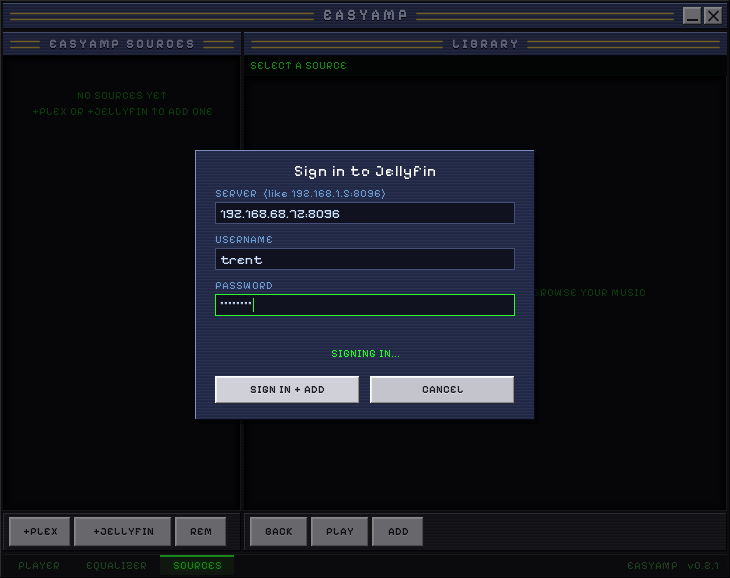
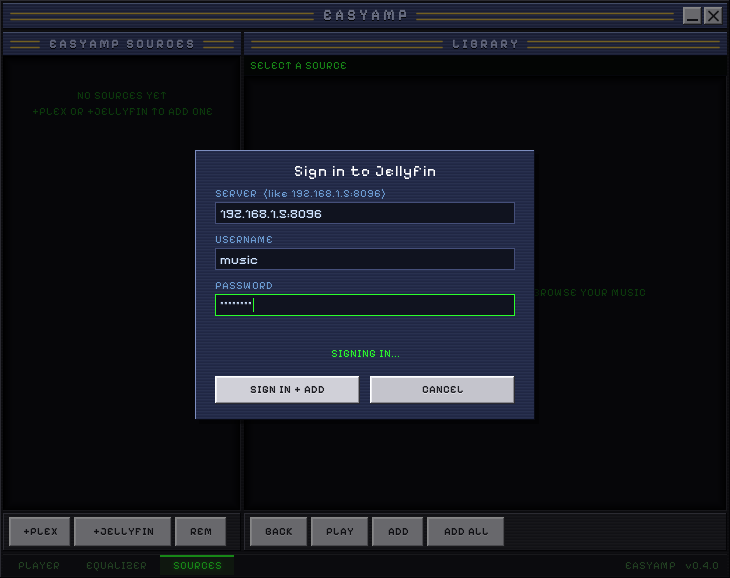
retro: CI build on its own tag pattern; scrub network-specific details
- .github/workflows/retro.yml: tests, cross-build and the Windows 98 import
  check on pull requests touching retro/, and a release on `retro-v*` tags.
  Two things are load-bearing: the tag pattern is NOT `v*` (that starts the
  GTK app's three release builds), and the release is created with
  make_latest: false (the README and the website link to
  releases/latest/download/... for the GTK installers). The tag must match
  EA_VERSION.
- tlstest takes its upload URL as an argument instead of a compiled-in
  LAN address; the doc renders use generic server names.

diff --git a/retro/src/main_shot.c b/retro/src/main_shot.c
@@ -155,15 +155,15 @@ int main(int argc, char **argv)
         static const char *names[] = { "AC/DC", "Aerosmith", "Alice in Chains", "The Beatles", "Beyonce", "Black Sabbath", "Blondie",
             "Bob Dylan", "Creedence Clearwater Revival", "David Bowie", "Deep Purple", "Dire Straits", "The Doors", "Eagles" };
         m.link_open = 0; m.form_open = 1; m.form_focus = 2;
-        strcpy(m.form_field[0], "192.168.68.72:8096"); strcpy(m.form_field[1], "trent"); strcpy(m.form_field[2], "secret99");
+        strcpy(m.form_field[0], "192.168.1.5:8096"); strcpy(m.form_field[1], "music"); strcpy(m.form_field[2], "password");
         strcpy(m.form_status, "SIGNING IN...");
         ui_model_changed(ui, UI_CH_SOURCES); ui_tick(ui, 500); ui_mouse_move(ui, 300, 390);
         shot(ui, dir, "sources-jellyfin-form");
         m.form_open = 0;
         m.naccts = 2; m.acct_sel = 0;
-        strcpy(m.accts[0].name, "Plex  starbase1"); m.accts[0].state = EA_SRC_OK;
+        strcpy(m.accts[0].name, "Plex  home-server"); m.accts[0].state = EA_SRC_OK;
         strcpy(m.accts[1].name, "Jellyfin  attic-nas"); m.accts[1].state = EA_SRC_UNREACHABLE;
-        strcpy(m.src_crumb, "STARBASE1 > MUSIC"); strcpy(m.src_status, "60 ARTISTS");
+        strcpy(m.src_crumb, "HOME-SERVER > MUSIC"); strcpy(m.src_status, "60 ARTISTS");
         for (i = 0; i < 60; i++) { sprintf(lib[i].name, "%s%s", names[i % 14], i >= 14 ? " (more)" : ""); lib[i].container = 1; }
         m.src_items = lib; m.src_nitems = 60; m.src_sel = 1;
         lib[1].marked = lib[3].marked = lib[4].marked = lib[5].marked = lib[9].marked = 1; strcpy(m.src_status, "5 SELECTED");

diff --git a/retro/tests/tlstest.c b/retro/tests/tlstest.c
@@ -1,15 +1,14 @@
 /* tlstest - the make-or-break check for Plex on Windows 98: can this machine
  * complete a TLS 1.2 handshake with plex.tv and get a link code back?
- * Writes TLSTEST.TXT beside itself and, when the dev box is reachable, posts
- * the same report to its upload endpoint so nobody has to read a console. */
+ * Writes TLSTEST.TXT beside itself. Given an upload URL it also posts the
+ * report there as a multipart form, so nobody has to read a console on the
+ * old machine:   TLSTEST.EXE http://192.168.1.10:8089/ */
 #include <windows.h>
 #include <stdio.h>
 #include <string.h>
 #include "../src/net.h"
 
-#define UPLOAD "http://192.168.68.72:8089/"
-
-int main(void)
+int main(int argc, char **argv)
 {
     static char report[4096], body[5000];
     char diag[160], host[64] = "unknown", head[128];
@@ -47,8 +46,10 @@ int main(void)
 
     sprintf(body, "--EAB\r\nContent-Disposition: form-data; name=\"f\"; filename=\"TLSTEST-%s.TXT\"\r\nContent-Type: text/plain\r\n\r\n%s\r\n--EAB--\r\n", host, report);
     strcpy(head, "Content-Type: multipart/form-data; boundary=EAB\r\n");
-    printf("report %s\n", net_request("POST", UPLOAD, head, body, &up, 6000) == 200 ? "sent to devbase1" : "NOT sent (dev box unreachable) - see TLSTEST.TXT");
-    net_free(&up);
+    if (argc > 1) {
+        printf("report %s\n", net_request("POST", argv[1], head, body, &up, 6000) == 200 ? "uploaded" : "NOT uploaded - see TLSTEST.TXT");
+        net_free(&up);
+    }
     Sleep(2500);                                   /* leave the console readable for a moment */
     return pass ? 0 : 1;
 }
